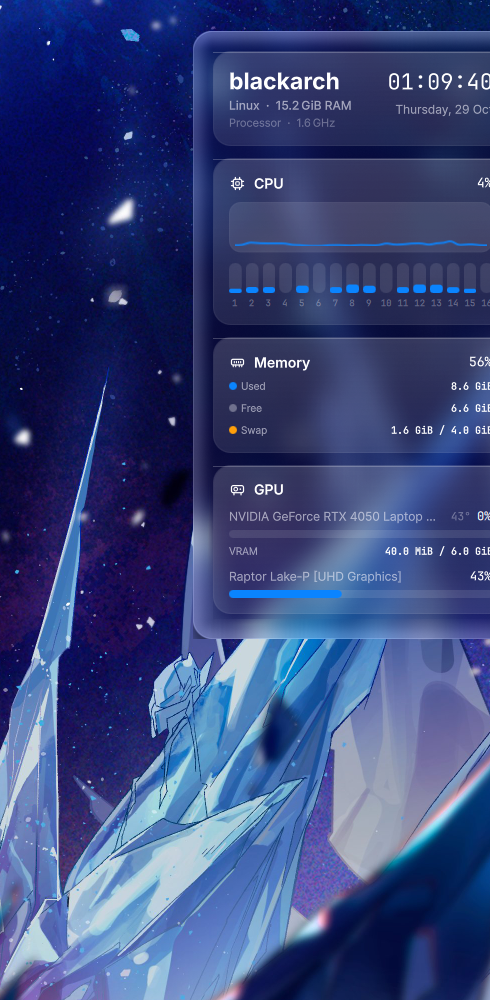
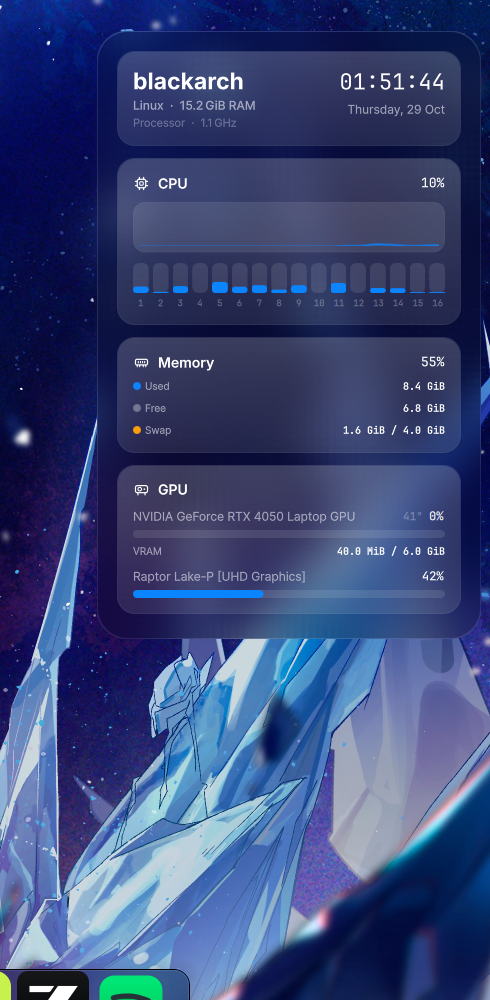
fix(ui): remove glass card top highlight — uniform macOS edges
The soft top-luminance strip still read as a bright line pinned to the
top corners of the cards (second user report). macOS section cards have
a single subtle border and no inner highlight, so the strip is removed
entirely and the card fill top is brightened slightly to keep the
surface luminous.

diff --git a/package/contents/ui/components/MacOSColors.qml b/package/contents/ui/components/MacOSColors.qml
@@ -57,16 +57,13 @@ QtObject {
     // Glass section cards (Tahoe style: a second glass layer on the glass).
     readonly property color cardFillTop: isLight
         ? Qt.rgba(1, 1, 1, 0.58)
-        : Qt.rgba(1, 1, 1, 0.19)
+        : Qt.rgba(1, 1, 1, 0.21)
     readonly property color cardFillBottom: isLight
         ? Qt.rgba(1, 1, 1, 0.40)
         : Qt.rgba(1, 1, 1, 0.11)
     readonly property color cardBorder: isLight
         ? Qt.rgba(0, 0, 0, 0.08)
         : Qt.rgba(1, 1, 1, 0.15)
-    readonly property color cardHighlight: isLight
-        ? Qt.rgba(1, 1, 1, 0.9)
-        : Qt.rgba(1, 1, 1, 0.22)
 
     // ── Semantics (macOS system colors) ───────────────────────────────
     readonly property color accent: accentColor

diff --git a/package/contents/ui/components/GlassCard.qml b/package/contents/ui/components/GlassCard.qml
@@ -21,21 +21,6 @@ Rectangle {
         GradientStop { position: 1.0; color: colors.cardFillBottom }
     }
 
-    // Soft top luminance: fades out over a few pixels instead of a crisp
-    // 1px line, which read as a floating stripe over the translucent fill.
-    Rectangle {
-        anchors.top: parent.top
-        anchors.left: parent.left
-        anchors.right: parent.right
-        anchors.leftMargin: 8
-        anchors.rightMargin: 8
-        height: 6
-        gradient: Gradient {
-            GradientStop { position: 0.0; color: colors.cardHighlight }
-            GradientStop { position: 1.0; color: "transparent" }
-        }
-    }
-
     ColumnLayout {
         id: cardLayout
 
